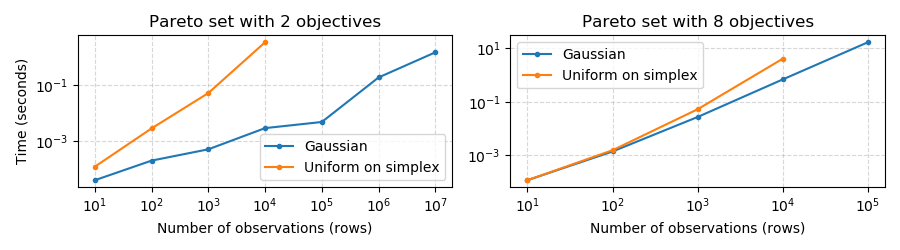
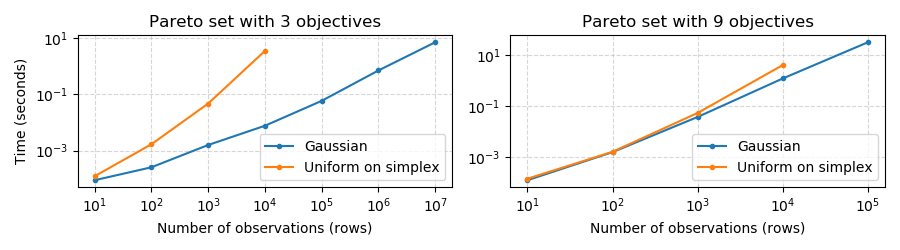
small changes to readme and plots

diff --git a/scripts/timing.py b/scripts/timing.py
@@ -39,7 +39,7 @@ def get_times(observations, cost_func, algorithm, num_runs):
 
         result = np.median(runs)
         yield result
-        if result > 1:  # If it takes too long, stop
+        if result > 2:  # If it takes too long, stop
             return
 
 
@@ -48,7 +48,7 @@ num_runs = 10
 
 plt.figure(figsize=(9, 2.5))
 
-objectives = 2
+objectives = 3
 plt.subplot(1, 2, 1)
 max_times = 0
 plt.title("Pareto set with {} objectives".format(objectives, num_runs))
@@ -61,14 +61,15 @@ max_times = max(max_times, len(times))
 plt.semilogy(observations[: len(times)], times, "-o", ms=3, label="Uniform on simplex")
 
 
-plt.legend().set_zorder(50)
+plt.legend(loc="lower right").set_zorder(50)
 plt.xlabel("Number of observations (rows)")
 plt.ylabel("Time (seconds)")
 plt.grid(True, alpha=0.5, ls="--", zorder=0)
+#plt.yticks(times[:max_times])
 plt.xticks(observations[:max_times], ["$10^{}$".format(i) for i in observations[:max_times]])
 
 
-objectives = 8
+objectives = 9
 plt.subplot(1, 2, 2)
 max_times = 0
 plt.title("Pareto set with {} objectives".format(objectives, num_runs))
@@ -81,9 +82,10 @@ max_times = max(max_times, len(times))
 plt.semilogy(observations[: len(times)], times, "-o", ms=3, label="Uniform on simplex")
 
 
-plt.legend().set_zorder(50)
+plt.legend(loc="lower right").set_zorder(50)
 plt.xlabel("Number of observations (rows)")
 plt.grid(True, alpha=0.5, ls="--", zorder=0)
+#plt.yticks(times[:max_times])
 plt.xticks(observations[:max_times], ["$10^{}$".format(i) for i in observations[:max_times]])
 
 

diff --git a/README.md b/README.md
@@ -10,17 +10,17 @@ There are two common ways to optimize a function of several variables:
 The disadvantage of scalarization is that objectives must be weighted a priori.
 The paretoset query returns every value that could be obtained by scalarization, but also values that could not have been found by scalarization.
 
-## Examples - paretoset queries for data analysis and insight
+## Example - Skyline queries for data analysis and insight
 
-The folllowing example is from the paper "*The paretoset Operator*" by Börzsönyi et al.
+The folllowing example is from the paper "*The Skyline Operator*" by Börzsönyi et al.
 
 Suppose you are going on holiday and you are looking for a hotel that is cheap and close to the beach. 
 These two goals are complementary as the hotels near the beach tend to be more expensive. 
 
 The database system at your travel agents' is unable to decide which hotel is best for you, but it can at least present you all interesting hotels. 
 Interesting are all hotels that are not worse than any other hotel in both dimensions. 
-We call this set of interesting hotels the *paretoset*. 
-From the paretoset, you can now your final decision, thereby weighing your personal preferences for price and distance to the beach.
+We call this set of interesting hotels the *skyline*. 
+From the skyline, you can now your final decision, thereby weighing your personal preferences for price and distance to the beach.
 
 ```python
 from paretoset import paretoset
@@ -54,7 +54,7 @@ top_performers = salespeople[mask]
 
 ![](https://github.com/tommyod/paretoset/blob/initial/scripts/example_salespeople.png)
 
-## Examples - Pareto efficient solutions (non-dominated front) in multiobjective optimization
+## Example - Pareto efficient solutions in multiobjective optimization
 
 Suppose you wish to query a database for salespeople that might be eligible for a raise.
 To find top performers (low salary, but high sales) for every department:
